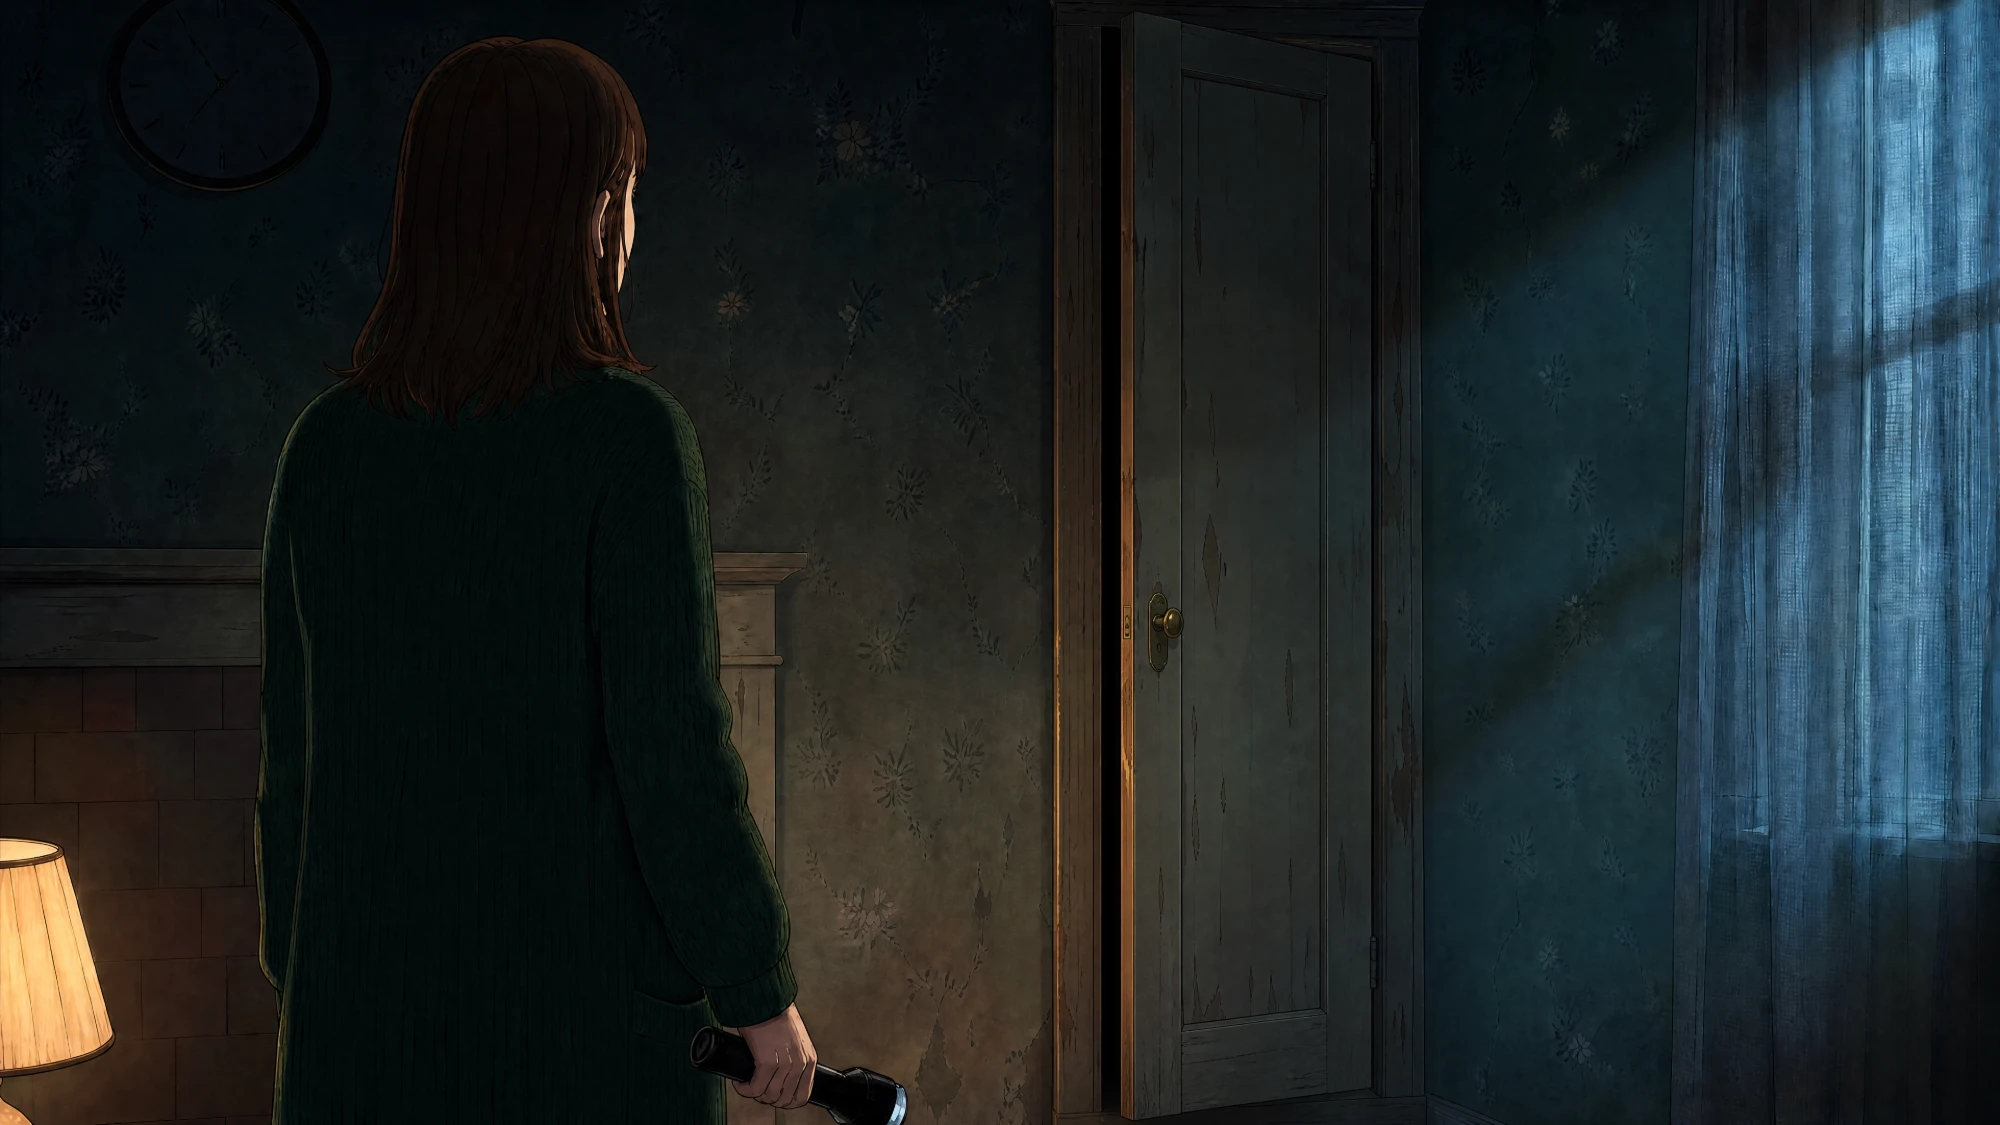
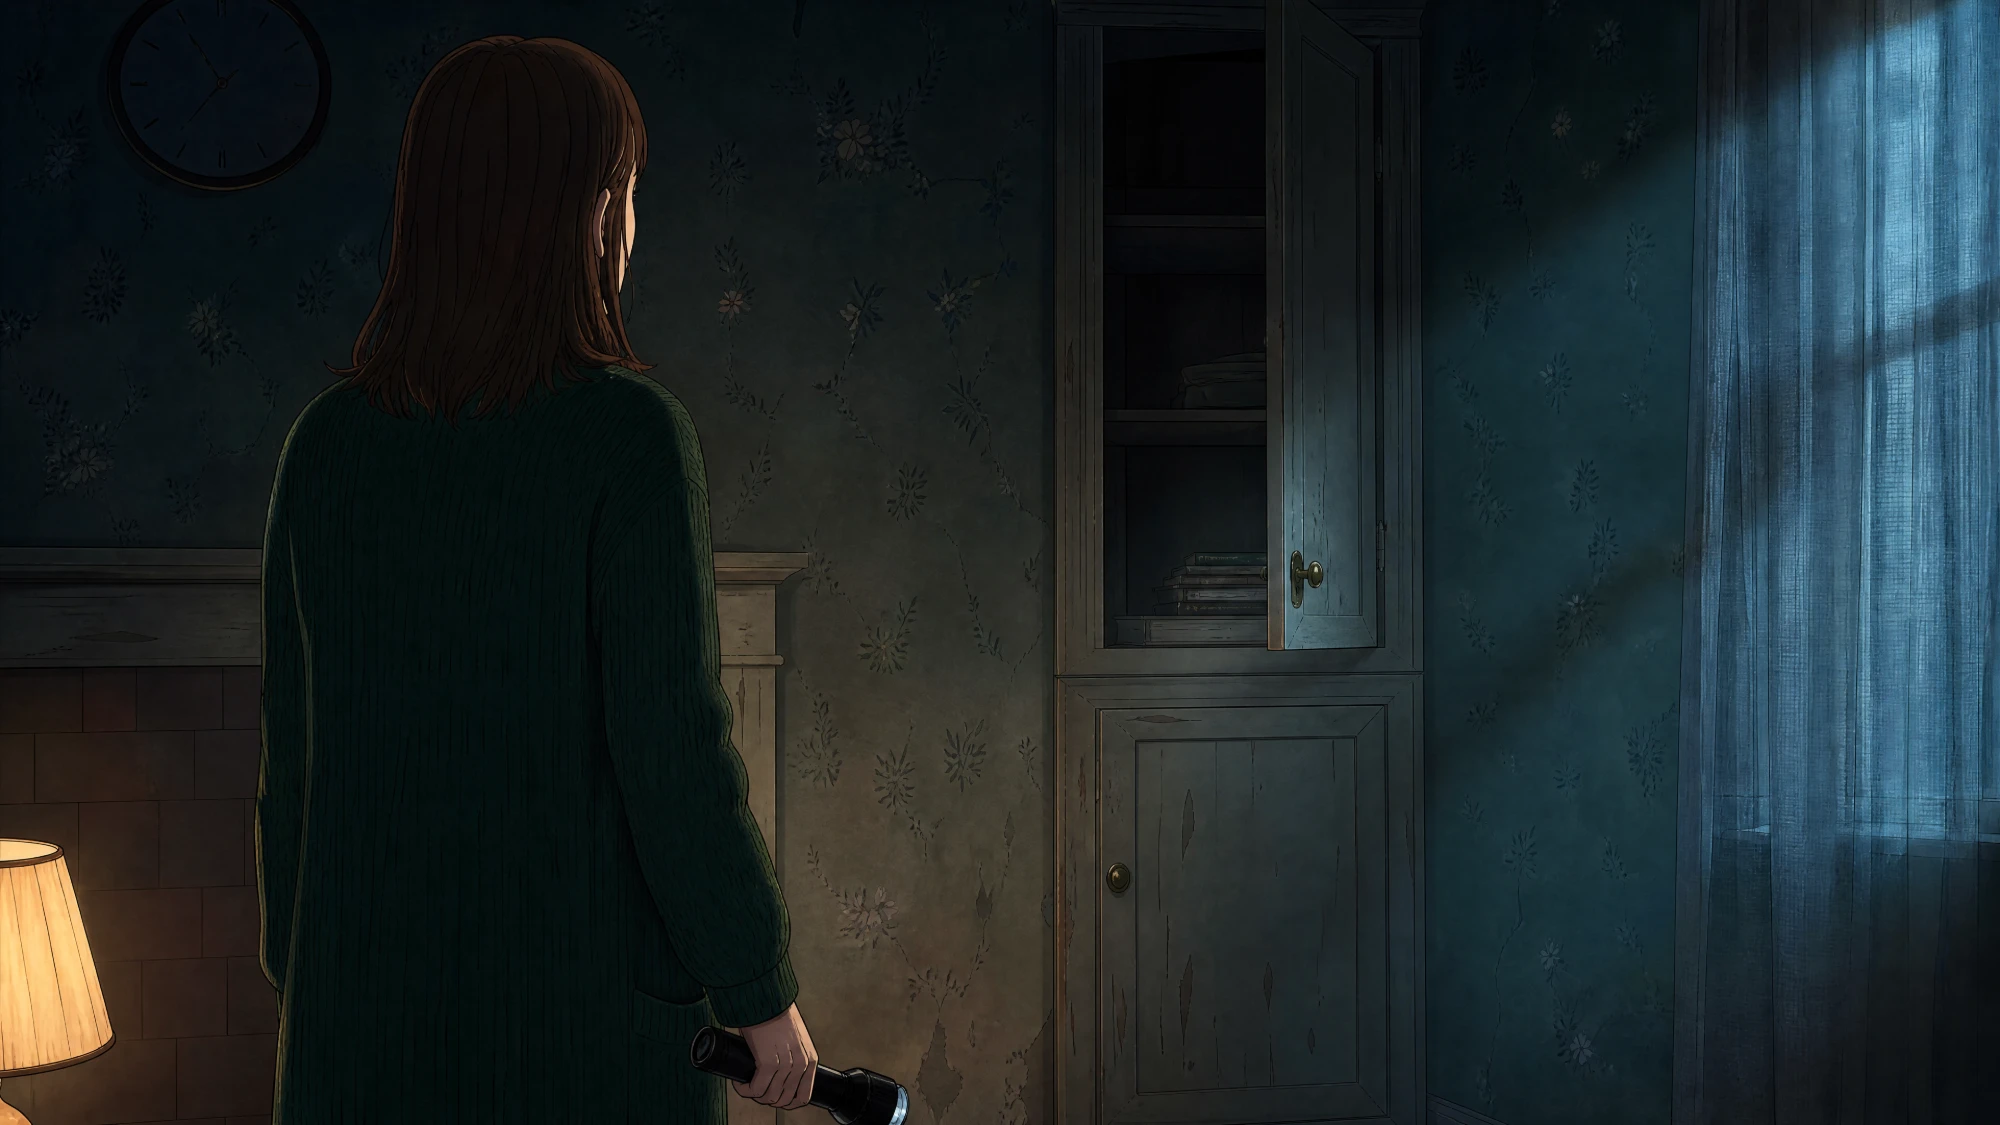
SH080: end frame v3 = graded crop of start
Claude-Session: https://claude.ai/code/session_01TcVNYSZDPrfyS5ZdR6sMpF

diff --git a/03_prompts/SH080_clip.md b/03_prompts/SH080_clip.md
@@ -4,7 +4,7 @@
 Движение задаётся двумя картинками (приём SH030/SH060/SH070): `@image1` — старт (Рут со спины, лампа горит), `@image2` — конец (тот же кадр, приближенный к щели, лампа погасла).
 Мёртвая тишина (3,0 с), дыхание и щелчки в абсолютной тишине — на монтаже; модель даёт шаг, щелчок выключателя лампы и сухие щелчки фонарика.
 
-Референсы (строго в этом порядке): `@image1` = старт SH080 v1 (шкаф как в комнате) — https://res-prod.buzzy.now/file-service/f4b35df4-9ea1-4046-a619-728be45c79cc.png · `@image2` = конец SH080 v2 — https://res-prod.buzzy.now/file-service/697fbef4-e20e-40c3-a766-43d5aa2aed31.png · `@image3` = карта Рут v5e — https://res-prod.buzzy.now/file-service/14db95a1-86da-43a8-b457-cd531f9a8cbd.png
+Референсы (строго в этом порядке): `@image1` = старт SH080 v1 (шкаф как в комнате) — https://res-prod.buzzy.now/file-service/f4b35df4-9ea1-4046-a619-728be45c79cc.png · `@image2` = конец SH080 v3 (кроп старта 1160×652 @ 840,40 + цветокоррекция «лампа погасла») — https://res-prod.buzzy.now/file-service/3e3ba349-9d52-4e57-bf7b-7589a80b8307.jpg · `@image3` = карта Рут v5e — https://res-prod.buzzy.now/file-service/14db95a1-86da-43a8-b457-cd531f9a8cbd.png
 
 ```
 场景背景：1977年11月一个下雨的夜里，凌晨3点06分，伦敦一栋破旧的市政联排住宅的一楼前厅。露丝握着关着的手电筒站起来，盯着后墙壁龛里那个上柜门半开的储物柜。摄影机从她右肩旁经过，缓慢地推向柜子里的黑暗。

diff --git a/log.md b/log.md
@@ -95,3 +95,4 @@
 - БРАК 2 (пользователь: «темнота взялась из ниоткуда»): яркость плавно падает 2,75–3,6 с (Y 50 → 38), а лампа ушла из кадра ещё на ≈1,5 с. Причина — мой промт: лампа гасла «за кадром» на 3,6 с, и конечный кадр был уже тёмным → модель растянула потемнение в наплыв. Правило «свет без видимого источника» работает и наоборот: изменение света должно происходить у источника в кадре.
 - Также: на каминной полке появилась рамка с фото (лишний предмет).
 - Исправление: лампа гаснет на 0,8 с, пока она в кадре, рывком; Рут вздрагивает; конец = кроп старта (без Рут и лампы), затемнённый цветокоррекцией (геометрия 1:1, наплыву не из чего взяться). Наезд 1,0 м.
+- Конец v3: кроп оригинала старта (Рут и лампа вне кропа) + цветокоррекция ffmpeg (минус тёплое, gamma 0.85, sat 0.75) → 3e3ba349. Геометрия 1:1 со стартом.
